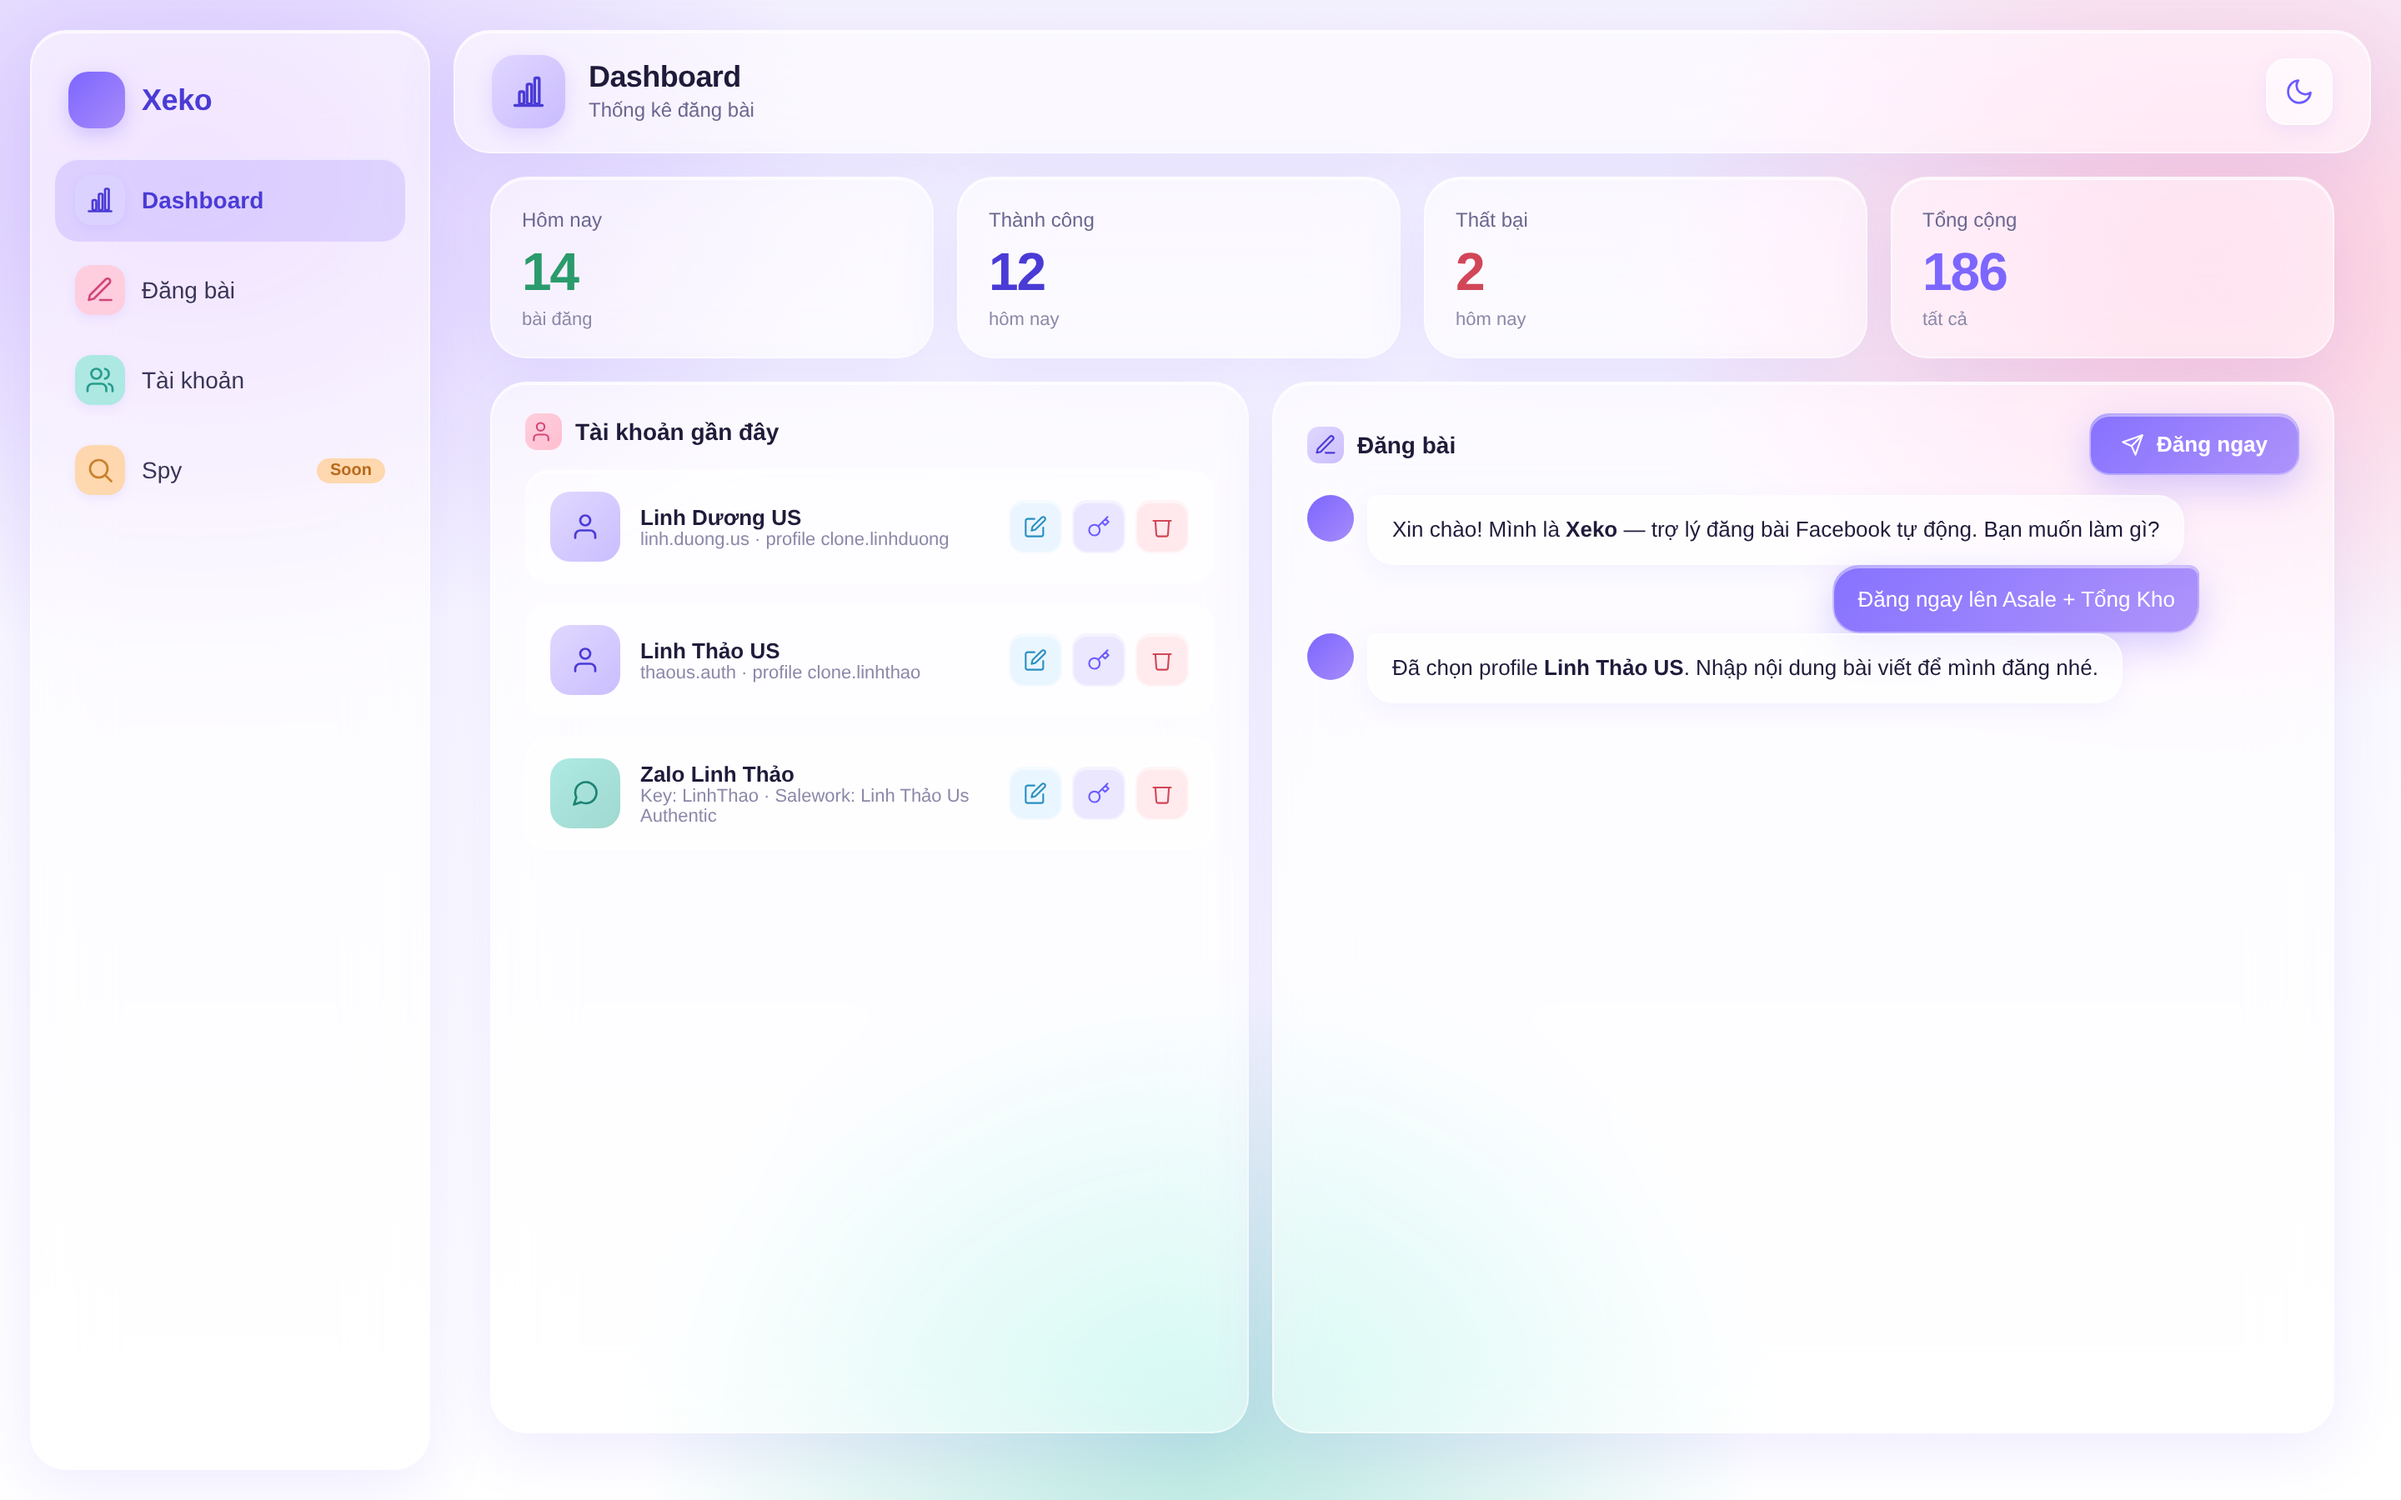
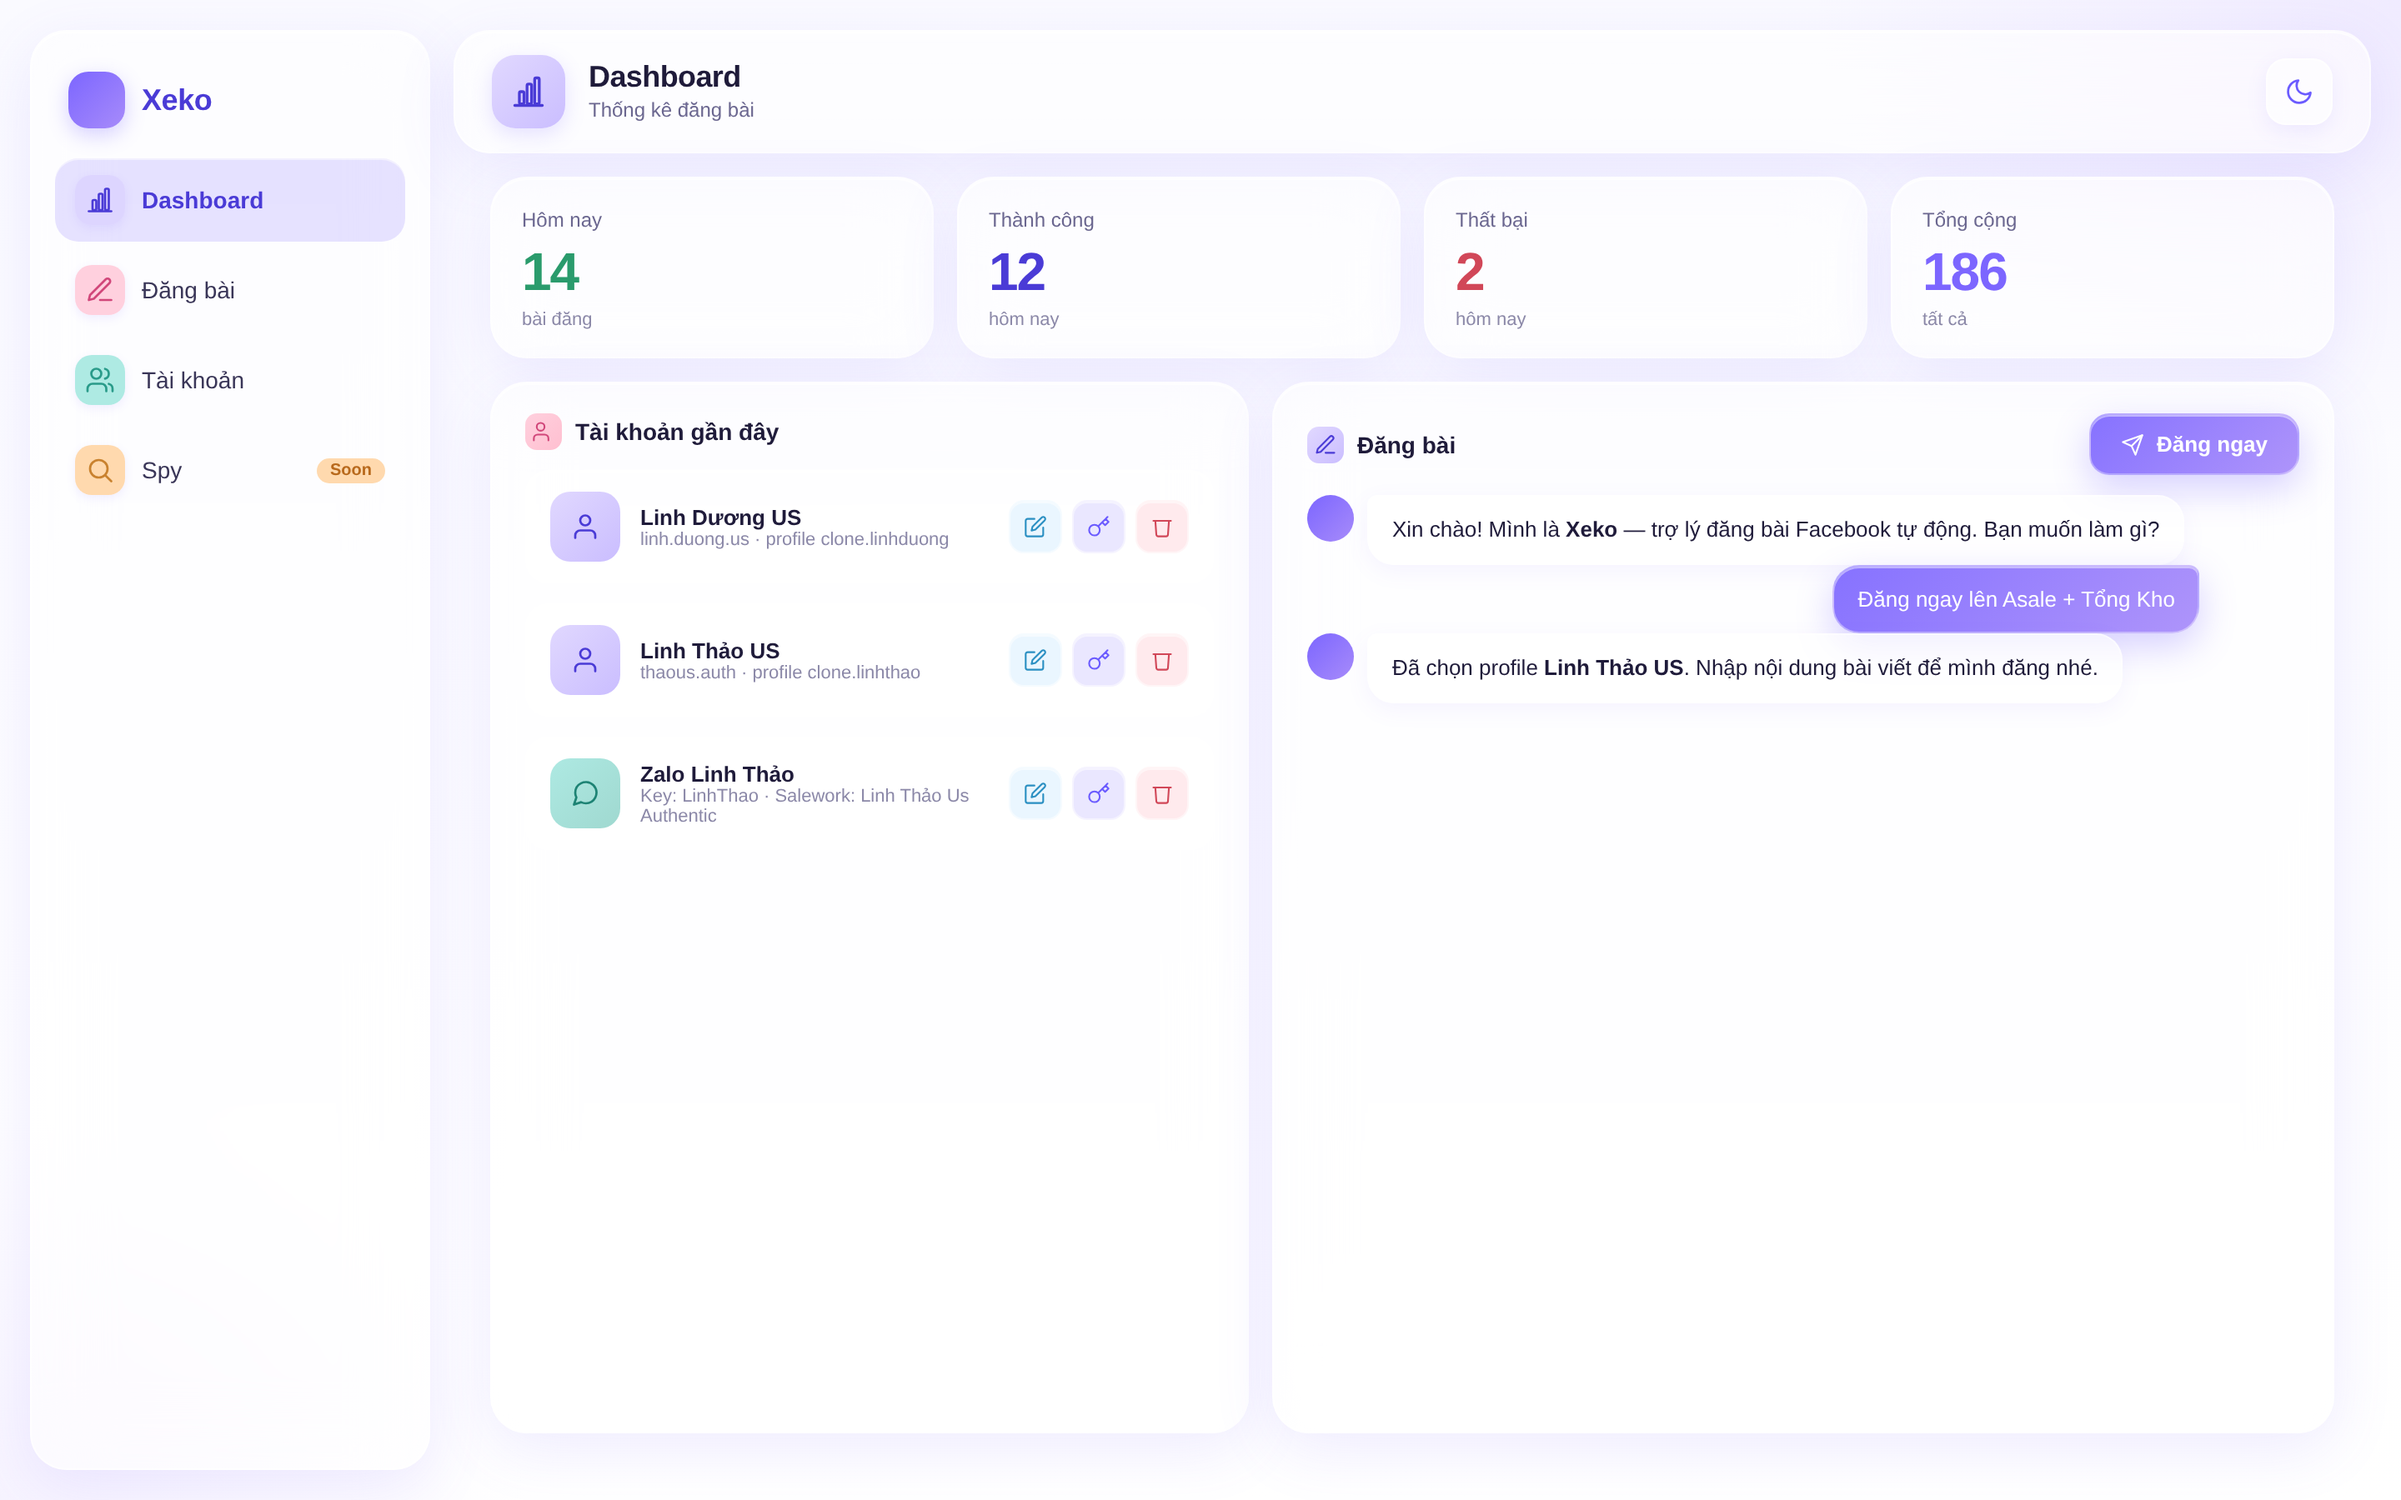
WIP: glass mockup — softer lavender backdrop (less màu mè)

Changed region(s): [[0.3438, 0.7467, 0.6562, 1.0], [0.0, 0.0, 0.25, 0.28], [0.7812, 0.0933, 1.0, 0.3422]]

diff --git a/tools/glass-mockup.html b/tools/glass-mockup.html
@@ -11,10 +11,9 @@
     height: 100vh;
     overflow: hidden;
     background:
-      radial-gradient(40rem 30rem at 8% 12%,  #d8c8ff 0%, transparent 60%),
-      radial-gradient(35rem 28rem at 92% 18%, #ffc8d8 0%, transparent 60%),
-      radial-gradient(38rem 30rem at 50% 95%, #b8e8e0 0%, transparent 55%),
-      linear-gradient(180deg, #f4f1fe 0%, #faf9ff 50%, #ffffff 100%);
+      radial-gradient(40rem 30rem at 100% 0%,  rgba(216,200,255,0.30) 0%, transparent 55%),
+      radial-gradient(36rem 26rem at 0% 100%, rgba(216,200,255,0.20) 0%, transparent 55%),
+      linear-gradient(180deg, #fafaff 0%, #ffffff 100%);
   }
 
   .app { display: flex; height: 100vh; padding: 18px; gap: 14px; }
